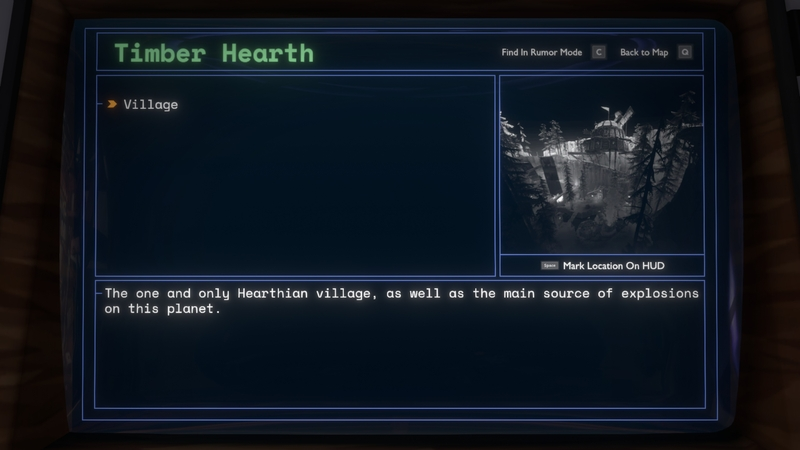
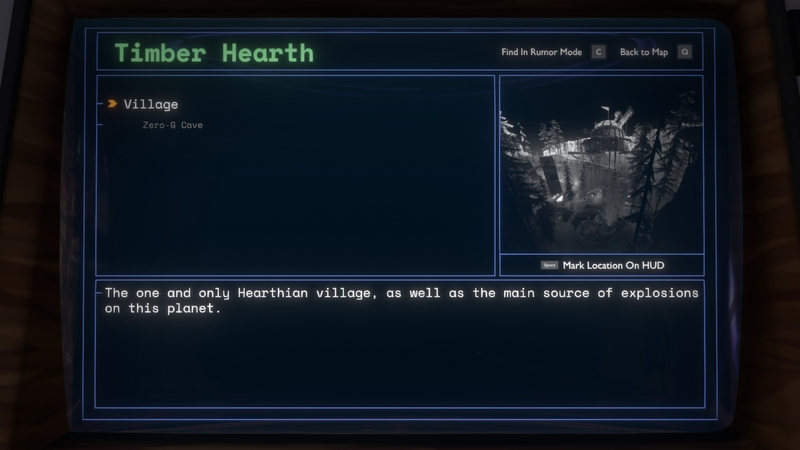
update README with new subentries feature

diff --git a/README.md b/README.md
@@ -16,13 +16,15 @@ This makes it difficult to know where to find the facts that you are missing for
 
 This feature helps you know in which entries there may be missing facts that you need for the achievement.
 
+The mod also works with missing subentries that have facts required for the achievement, so the mark would also appear if the Zero-G Cave entry was missing.
+
 ## Show all missing facts feature
 
 If you need even more help, you can activate a setting to show all unrevealed facts that Archaeologist requires:
 
 ![settings](images/settings.png)
 
-When you activate it the missing facts are shown like this (below the *"There's more to explore here."* text, with the same color and starting with *"MISSING FACT: "*):
+When you activate it the missing facts and subentries are shown like this (below the *"There's more to explore here."* text, with the same color and starting with *"MISSING FACT: "* or *"MISSING SUBENTRY: "*):
 
 ![example-disabled](images/example-showall.jpg)
 
